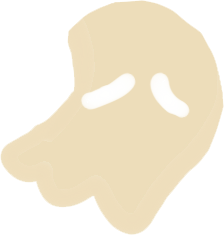
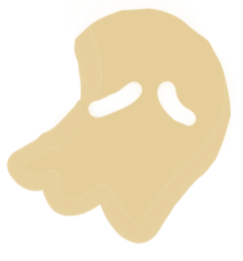
init poses, ghost hovers

diff --git a/react/src/components/major_cases/social-deduction/Roles.tsx b/react/src/components/major_cases/social-deduction/Roles.tsx
@@ -1,4 +1,4 @@
-import CharacterRoleTooltip, {GOOD_TEXT_COLOR, EVIL_TEXT_COLOR, SOLO_TEXT_COLOR} from "./CharacterRoleTooltip";
+import CharacterRoleTooltip, { EVIL_TEXT_COLOR, GOOD_TEXT_COLOR, SOLO_TEXT_COLOR } from "./CharacterRoleTooltip";
 import { Role } from "./SocialDeductionEnums";
 
 function RoleDisplay ({role}: {role: Role}) {
@@ -12,21 +12,21 @@ function RoleDisplay ({role}: {role: Role}) {
 export default function Roles() {
   return (
     <div className="roles content p-10">
-      <ul className="space-y-1 list-disc list-inside">
-        <li><RoleDisplay role={Role.ASSASSIN}/> At night, the Assassin convenes with the Silencer and Enchanter under the gleam of the haunting moon. The Assassin acts as the primary villain of the game, assisted by their cronies. Assassins are a part of the evil team. Collectively, the evil team can vote on one player to kill on every night except the first.</li>
-        <li><RoleDisplay role={Role.BODYGUARD}/> The Bodyguard was hired by the Hotel Ghoulsby to protect the guests from this game of dire stakes. Their job is to choose one guest every night to protect them from the forces that be. If the player they are protecting is attacked, they can take a hit on behalf of their protected guest and that player will survive. They have a total of two hits before they die, which can be taken either directly by the evil team voting to kill them (1 hit) or if the player they are protecting is set to die (1 hit). If they are voted out by the <b style={{color: GOOD_TEXT_COLOR}}>Village</b>, they do not have an extra life and will be exiled if the <b style={{color: GOOD_TEXT_COLOR}}>Village</b> votes for them.</li>
-        <li><RoleDisplay role={Role.DOCTOR}/> The noble doctor has devoted their work to saving other's lives, but now their own is at stake. This obligation to the Hippocratic oath means their work must continue even during a well-needed vacation at Hotel Ghoulsby and they can choose one player to protect each night of the game. If that player is attacked, neither the doctor nor the player are injured. However, the Doctor may not protect themselves, so if they are directly targeted they will die.</li>
-        <li><RoleDisplay role={Role.ENCHANTER}/> The Enchanter has psychic visions to assist the evil team by obscuring the auras of their fellow players. With the power granted them by their mystical enchants, they can make one player appear to have an evil aura when viewed by the Telepath. Though powerful, this spell only lasts for one night and the true aura will resume the next night.</li>
-        <li><RoleDisplay role={Role.FOOL}/> A depressed cad with some double-crossing tendencies. The Fool is neither good nor evil, but they feel trapped as a servant at Hotel Ghoulsby and want to leave. They win the game if they are exiled by their <b style={{color: GOOD_TEXT_COLOR}}>Village</b>, but do not win if they are killed by the <b style={{color: EVIL_TEXT_COLOR}}>Evil</b> team because, coincidentally, they'll never escape if they're dead.</li>
-        <li><RoleDisplay role={Role.GOSSIP}/> Always up for a gab, the Gossip knows the sordid truths that plague the halls of Hotel Ghoulsby. As a member of the villager team, they have the ability to learn that a certain role is played by one of two players at the beginning of the game. </li>
+      <ul className="space-y-5">
+        <li><RoleDisplay role={Role.ASSASSIN}/> At night, the Assassin convenes with the Silencer and Enchanter under the gleam of the haunting moon. <i>The Assassin acts as the primary villain of the game</i>, assisted by their cronies. Assassins are a part of the evil team. Collectively, the evil team can vote on one player to kill on every night except the first.</li>
+        <li><RoleDisplay role={Role.BODYGUARD}/> The Bodyguard was hired by the Hotel Ghoulsby to protect the guests from this game of dire stakes. <i>Their job is to choose one guest every night to protect them</i> from the forces that be. If the player they are protecting is attacked, they can take a hit on behalf of their protected guest and that player will survive. They have a total of two hits before they die, which can be taken either directly by the evil team voting to kill them (1 hit) or if the player they are protecting is set to die (1 hit). If they are voted out by the <b style={{color: GOOD_TEXT_COLOR}}>Village</b>, they do not have an extra life and will be exiled if the <b style={{color: GOOD_TEXT_COLOR}}>Village</b> votes for them.</li>
+        <li><RoleDisplay role={Role.DOCTOR}/> The noble doctor has devoted their work to saving other's lives, but now their own is at stake. This obligation to the Hippocratic oath means their work must continue even during a well-needed vacation at Hotel Ghoulsby and they can <i>choose one player to protect each night of the game</i>. If that player is attacked, neither the doctor nor the player are injured. However, the Doctor may not protect themselves, so if they are directly targeted they will die.</li>
+        <li><RoleDisplay role={Role.ENCHANTER}/> The Enchanter has psychic visions to assist the evil team by <i>obscuring the auras of their fellow players</i>. With the power granted them by their mystical enchants, they can make one player appear to have an evil aura when viewed by the Telepath. Though powerful, this spell only lasts for one night and the true aura will resume the next night.</li>
+        <li><RoleDisplay role={Role.FOOL}/> A depressed cad with some double-crossing tendencies. The Fool is neither good nor evil, but they feel trapped as a servant at Hotel Ghoulsby and want to leave. <i>They win the game if they are exiled by their <b style={{color: GOOD_TEXT_COLOR}}>Village</b></i>, but do not win if they are killed by the <b style={{color: EVIL_TEXT_COLOR}}>Evil</b> team because, coincidentally, they'll never escape if they're dead.</li>
+        <li><RoleDisplay role={Role.GOSSIP}/> Always up for a gab, the Gossip knows the sordid truths that plague the halls of Hotel Ghoulsby. As a member of the villager team, <i>they have the ability to learn that a certain role is played by one of two players at the beginning of the game.</i></li>
         <li><RoleDisplay role={Role.HEADHUNTER}/> Why help others when you could make a living killing them? The Headhunter is given a target that they must seek to get voted out by the town. They win the game and receive their reward if this target is killed by the <b style={{color: GOOD_TEXT_COLOR}}>Village</b>. Their target is always on the <b style={{color: GOOD_TEXT_COLOR}}>Village</b> team. </li>
-        <li><RoleDisplay role={Role.INVESTIGATOR}/> Ever the observer, the Investigator was brought into the game to help the villagers crack the case… or die trying. Each night, they learn whether any two players are on the same team (ie <b style={{color: GOOD_TEXT_COLOR}}>Village</b>, <b style={{color: EVIL_TEXT_COLOR}}>Evil</b>, or <b style={{color: SOLO_TEXT_COLOR}}>Solo</b>). They do not learn which team the players are on, only that they are on the same or different teams. Two <b style={{color: SOLO_TEXT_COLOR}}>Solo</b> players will appear to be on different teams.</li>
-        <li><RoleDisplay role={Role.LOVER}/> An all-around loving person with more to share. As a member of the villager team the Lover visits one player each night. Unfortunately, they're not always the best at choosing their company. If the player they visit is evil OR if that player is killed by the Assassin on that night, the Lover will die.</li>
-        <li><span className="text-xl"><CharacterRoleTooltip char_role={Role.RESURRECTED} scale={false}/> (<b style={{color: GOOD_TEXT_COLOR}}>Village</b> or <b style={{color: EVIL_TEXT_COLOR}}>Evil</b>):</span><br></br> An indecisive villager with a serial killer gene. The Resurrected acts as a villager until they are killed by the Assassin, at which point they join the evil team. </li>
-        <li><RoleDisplay role={Role.SILENCER}/> It's always the quiet ones. The Silencer can choose one player each night who will not be able to use their night-time action on that night. Only lasts for one night.</li>
-        <li><RoleDisplay role={Role.TELEPATH}/> Not as hot as Edward Cullen, but just as talented at reading minds. The Telepath can view the aura of one player each night (ie <b style={{color: GOOD_TEXT_COLOR}}>Village</b>, <b style={{color: EVIL_TEXT_COLOR}}>Evil</b>, <b style={{color: SOLO_TEXT_COLOR}}>Solo</b>). Watch out for the Enchanter, as this may obscure their ability. </li>
-        <li><RoleDisplay role={Role.VILLAGER}/> A good member of the <b style={{color: GOOD_TEXT_COLOR}}>Village</b>. No special abilities. </li>
-        <li><RoleDisplay role={Role.ZEALOT}/> It's nice to be a bigshot in a small town. The Zealot is more influential than their fellow villagers. When voting, their vote carries twice the weight. </li>
+        <li><RoleDisplay role={Role.INVESTIGATOR}/> Ever the observer, the Investigator was brought into the game to help the villagers crack the case… or die trying. <i>Each night, they learn whether any two players are on the same team</i> (ie <b style={{color: GOOD_TEXT_COLOR}}>Village</b>, <b style={{color: EVIL_TEXT_COLOR}}>Evil</b>, or <b style={{color: SOLO_TEXT_COLOR}}>Solo</b>). They do not learn which team the players are on, only that they are on the same or different teams. Two <b style={{color: SOLO_TEXT_COLOR}}>Solo</b> players will appear to be on different teams.</li>
+        <li><RoleDisplay role={Role.LOVER}/> An all-around loving person with more to share. As a member of the villager team the Lover visits one player each night. Unfortunately, they're not always the best at choosing their company. <i>If the player they visit is evil OR if that player is killed by the Assassin on that night, the Lover will die.</i></li>
+        <li><span className="text-xl"><CharacterRoleTooltip char_role={Role.RESURRECTED} scale={false}/> (<b style={{color: GOOD_TEXT_COLOR}}>Village</b> or <b style={{color: EVIL_TEXT_COLOR}}>Evil</b>):</span><br></br> An indecisive villager with a serial killer gene. The Resurrected <i>acts as a villager until they are killed by the Assassin, at which point they join the evil team.</i></li>
+        <li><RoleDisplay role={Role.SILENCER}/> It's always the quiet ones. <i>The Silencer can choose one player each night who will not be able to use their night-time action on that night.</i> Only lasts for one night.</li>
+        <li><RoleDisplay role={Role.TELEPATH}/> Not as hot as Edward Cullen, but just as talented at reading minds. The Telepath <i>can view the aura of one player each night</i> (ie <b style={{color: GOOD_TEXT_COLOR}}>Village</b>, <b style={{color: EVIL_TEXT_COLOR}}>Evil</b>, <b style={{color: SOLO_TEXT_COLOR}}>Solo</b>). Watch out for the Enchanter, as this may obscure their ability. </li>
+        <li><RoleDisplay role={Role.VILLAGER}/> A good member of the <b style={{color: GOOD_TEXT_COLOR}}>Village</b>. <i>No special abilities.</i> </li>
+        <li><RoleDisplay role={Role.ZEALOT}/> It's nice to be a bigshot in a small town. The Zealot is more influential than their fellow villagers. When voting, <i>their vote carries twice the weight.</i> </li>
       </ul>
     </div>
   )

diff --git a/react/src/components/major_cases/social-deduction/Characters.tsx b/react/src/components/major_cases/social-deduction/Characters.tsx
@@ -3,9 +3,14 @@ import RelativeAsset from '../../RelativeAsset'
 
 // characters
 import invisiguy from '../../../assets/major_cases/social-deduction/Invisiguy.png'
+import daisyculaPose from '../../../assets/major_cases/social-deduction/daisycula-pose.png'
 import daisycula from '../../../assets/major_cases/social-deduction/daisycula.png'
+import gorgonPose from '../../../assets/major_cases/social-deduction/gorgon-pose.png'
 import gorgon from '../../../assets/major_cases/social-deduction/gorgon.png'
+import greenribbonPose from '../../../assets/major_cases/social-deduction/greenribbon-pose.png'
 import greenribbon from '../../../assets/major_cases/social-deduction/greenribbon.png'
+import invisiguyPose from '../../../assets/major_cases/social-deduction/invisiguy-pose.png'
+import wolfguyPose from '../../../assets/major_cases/social-deduction/wolfguy-pose.png'
 import wolfguy from '../../../assets/major_cases/social-deduction/wolfguy.png'
 
 // ghosts
@@ -18,6 +23,8 @@ import sleepyghost from '../../../assets/major_cases/social-deduction/sleepyghos
 
 import InternalCharacterRoleTooltip from './CharacterRoleTooltip'
 import { InternalCharacter } from './SocialDeductionEnums'
+
+const GHOST_HOVER = 'hover:drop-shadow-[0_15px_15px_rgba(255,255,255,0.2)]'
 
 export default function InternalCharacters () {
   const [selectedInternalCharacter, setSelectedInternalCharacter] = useState<InternalCharacter>(InternalCharacter.ANXIOUS_GHOST)
@@ -33,9 +40,9 @@ export default function InternalCharacters () {
   }, [selectedInternalCharacter]);
   // console.log(selectedInternalCharacter)
 
-  const InternalCharacterAsset = ({imageSrc, extraStyles, character}: {imageSrc: string, extraStyles: CSSProperties, character: InternalCharacter}) => {
+  const InternalCharacterAsset = ({imageSrc, hoverImageSrc, extraStyles, extraClasses, character}: {imageSrc: string, hoverImageSrc?: string, extraStyles: CSSProperties, extraClasses?: string, character: InternalCharacter}) => {
     return (
-      <RelativeAsset imageSrc={imageSrc} extraStyles={extraStyles} 
+      <RelativeAsset imageSrc={imageSrc} hoverImageSrc={hoverImageSrc} extraStyles={extraStyles} extraClasses={extraClasses}
         onHover={() => { setSelectedInternalCharacter(character) }}
         onLeave={() => { setSelectedInternalCharacter(InternalCharacter.NONE) }}
       />
@@ -48,7 +55,7 @@ export default function InternalCharacters () {
       <div className="map relative left-1/2 transform -translate-x-1/2 aspect-w-4 aspect-h-3 max-w-screen-xl w-full">
         
         {/* MAIN CHARACTERS */}
-        <InternalCharacterAsset character={InternalCharacter.GREEN_RIBBON} imageSrc={greenribbon}
+        <InternalCharacterAsset character={InternalCharacter.GREEN_RIBBON} imageSrc={greenribbon} hoverImageSrc={greenribbonPose}
           extraStyles={{
             top: '16%',
             left: '7%',
@@ -56,23 +63,23 @@ export default function InternalCharacters () {
             zIndex: 1,
           }}
         />
-        <InternalCharacterAsset character={InternalCharacter.DAISYCULA} imageSrc={daisycula}
+        <InternalCharacterAsset character={InternalCharacter.DAISYCULA} imageSrc={daisycula} hoverImageSrc={daisyculaPose}
           extraStyles={{
-            top: '30%',
-            left: '14%',
+            top: '28%',
+            left: '13%',
             width: '30%',
             zIndex: 2,
           }}
         />
-        <InternalCharacterAsset character={InternalCharacter.INVISIGUY} imageSrc={invisiguy}
+        <InternalCharacterAsset character={InternalCharacter.INVISIGUY} imageSrc={invisiguy} hoverImageSrc={invisiguyPose}
           extraStyles={{
-            top: '24%',
+            top: '25%',
             left: '36%',
             width: '22%',
             zIndex: 1,
           }}
         />
-        <InternalCharacterAsset character={InternalCharacter.WOLF_GUY} imageSrc={wolfguy}
+        <InternalCharacterAsset character={InternalCharacter.WOLF_GUY} imageSrc={wolfguy} hoverImageSrc={wolfguyPose}
           extraStyles={{
             top: '24%',
             left: '56%',
@@ -80,7 +87,7 @@ export default function InternalCharacters () {
             zIndex: 1,
           }}
         />
-        <InternalCharacterAsset character={InternalCharacter.GORGON} imageSrc={gorgon}
+        <InternalCharacterAsset character={InternalCharacter.GORGON} imageSrc={gorgon} hoverImageSrc={gorgonPose}
           extraStyles={{
             top: '30%',
             left: '63%',
@@ -91,6 +98,7 @@ export default function InternalCharacters () {
 
         {/* GHOSTS */}
         <InternalCharacterAsset character={InternalCharacter.HEART_GHOST} imageSrc={heartghost}
+          extraClasses={GHOST_HOVER}
           extraStyles={{
             top: '46%',
             left: '2%',
@@ -99,6 +107,7 @@ export default function InternalCharacters () {
           }}
         />
         <InternalCharacterAsset character={InternalCharacter.NORMAL_GHOST} imageSrc={normalghost}
+          extraClasses={GHOST_HOVER}
           extraStyles={{
             top: '4%',
             left: '21%',
@@ -107,6 +116,7 @@ export default function InternalCharacters () {
           }}
         />
         <InternalCharacterAsset character={InternalCharacter.HAPPY_GHOST} imageSrc={happyghost}
+          extraClasses={GHOST_HOVER}
           extraStyles={{
             top: '13%',
             left: '78%',
@@ -115,6 +125,7 @@ export default function InternalCharacters () {
           }}
         />
         <InternalCharacterAsset character={InternalCharacter.ANXIOUS_GHOST} imageSrc={anxiousghost}
+          extraClasses={GHOST_HOVER}
           extraStyles={{
             top: '19%',
             left: '86%',
@@ -123,6 +134,7 @@ export default function InternalCharacters () {
           }}
         />
         <InternalCharacterAsset character={InternalCharacter.SLEEPY_GHOST} imageSrc={sleepyghost}
+          extraClasses={GHOST_HOVER}
           extraStyles={{
             top: '70%',
             left: '91%',

diff --git a/react/src/components/major_cases/social-deduction/Chronology.tsx b/react/src/components/major_cases/social-deduction/Chronology.tsx
@@ -2,6 +2,98 @@
 
 export default function Chronology() {
   return (
-    <>CHRONOLOGY</>
+    <div className="chronology container mx-auto mt-8">
+      <table className="table-auto w-full">
+        <thead>
+          <tr>
+            <th className="border px-2 py-2"></th>
+            <th className="border px-4 py-2">Actions</th>
+            <th className="border px-4 py-2">Kills</th>
+          </tr>
+        </thead>
+        <tbody>
+          <tr>
+            <td className="border px-2 py-2">Night 1</td>
+            <td className="border px-4 py-2">Data 2</td>
+            <td className="border px-4 py-2">
+              <div className="flex flex-col">
+                <div className="border-b px-4 py-2">Top Section</div>
+                <div className="px-4 py-2">Bottom Section</div>
+              </div>
+            </td>
+          </tr>
+          <tr>
+            <td className="border px-2 py-2">Day 1</td>
+            <td className="border px-4 py-2">Data 2</td>
+            <td className="border px-4 py-2">
+              <div className="flex flex-col">
+                <div className="border-b px-4 py-2">Top Section</div>
+                <div className="px-4 py-2">Bottom Section</div>
+              </div>
+            </td>
+          </tr>
+          <tr>
+            <td className="border px-2 py-2">Night 2</td>
+            <td className="border px-4 py-2">Data 2</td>
+            <td className="border px-4 py-2">
+              <div className="flex flex-col">
+                <div className="border-b px-4 py-2">Top Section</div>
+                <div className="px-4 py-2">Bottom Section</div>
+              </div>
+            </td>
+          </tr>
+          <tr>
+            <td className="border px-2 py-2">Day 2</td>
+            <td className="border px-4 py-2">Data 2</td>
+            <td className="border px-4 py-2">
+              <div className="flex flex-col">
+                <div className="border-b px-4 py-2">Top Section</div>
+                <div className="px-4 py-2">Bottom Section</div>
+              </div>
+            </td>
+          </tr>
+          <tr>
+            <td className="border px-2 py-2">Night 3</td>
+            <td className="border px-4 py-2">Data 2</td>
+            <td className="border px-4 py-2">
+              <div className="flex flex-col">
+                <div className="border-b px-4 py-2">Top Section</div>
+                <div className="px-4 py-2">Bottom Section</div>
+              </div>
+            </td>
+          </tr>
+          <tr>
+            <td className="border px-2 py-2">Day 3 </td>
+            <td className="border px-4 py-2">Data 2</td>
+            <td className="border px-4 py-2">
+              <div className="flex flex-col">
+                <div className="border-b px-4 py-2">Top Section</div>
+                <div className="px-4 py-2">Bottom Section</div>
+              </div>
+            </td>
+          </tr>
+          <tr>
+            <td className="border px-2 py-2">Night 4</td>
+            <td className="border px-4 py-2">Data 2</td>
+            <td className="border px-4 py-2">
+              <div className="flex flex-col">
+                <div className="border-b px-4 py-2">Top Section</div>
+                <div className="px-4 py-2">Bottom Section</div>
+              </div>
+            </td>
+          </tr>
+          <tr>
+            <td className="border px-2 py-2">Day 4</td>
+            <td className="border px-4 py-2">Data 2</td>
+            <td className="border px-4 py-2">
+              <div className="flex flex-col">
+                <div className="border-b px-4 py-2">Top Section</div>
+                <div className="px-4 py-2">Bottom Section</div>
+              </div>
+            </td>
+          </tr>
+        </tbody>
+      </table>
+    </div>
   )
 }

diff --git a/react/src/components/RelativeAsset.tsx b/react/src/components/RelativeAsset.tsx
@@ -5,18 +5,19 @@ interface AssetProps {
   linkTo?: string;
   hoverImageSrc?: string;
   extraStyles?: CSSProperties;
+  extraClasses?: string;
   onHover?: () => void;
   onLeave?: () => void;
 }
 
-const RelativeAsset: React.FC<AssetProps> = ({ imageSrc, linkTo, hoverImageSrc, extraStyles, onHover, onLeave }) => {
+const RelativeAsset: React.FC<AssetProps> = ({ imageSrc, linkTo, hoverImageSrc, extraStyles, extraClasses, onHover, onLeave }) => {
   const [isHovered, setIsHovered] = useState(false);
 
   const curImageSrc = isHovered && hoverImageSrc ? hoverImageSrc : imageSrc;
 
   return (
     <div
-      className={`relative-asset absolute${isHovered ? ' hover-effect' : ''}`}
+      className={`relative-asset absolute${isHovered ? ' hover-effect' : ''}${extraClasses ? ' ' + extraClasses : ''}`}
       onMouseEnter={() => { setIsHovered(true) ; (onHover ? onHover() : (() => {})()) } }
       onMouseLeave={() => { setIsHovered(false); (onLeave ? onLeave() : (() => {})()) } }
       style={extraStyles}
